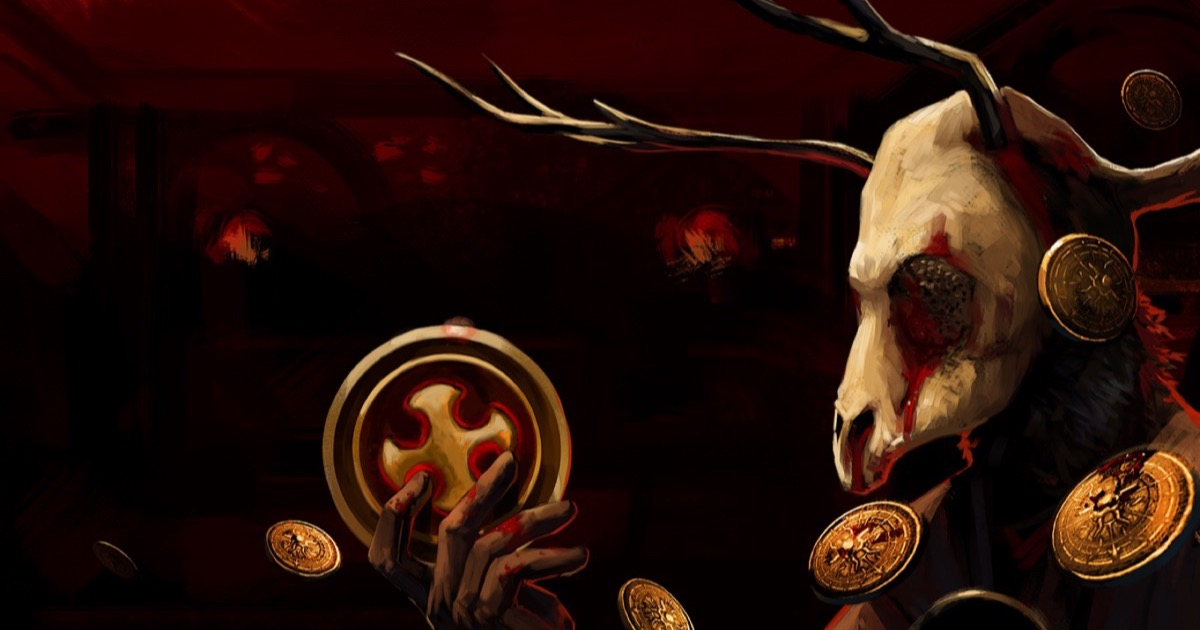
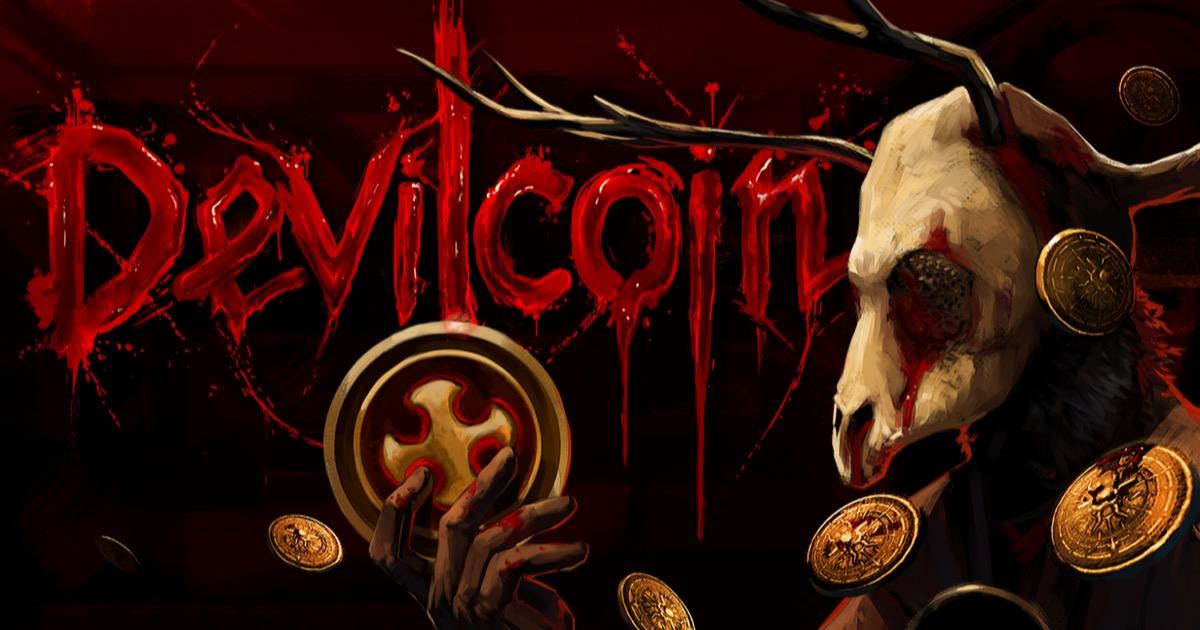
Devilcoin: trailer in press kit; social image uses full key art
Press kit gets a Trailer section (same spot as Abelina's: between What it is
and Screenshots). OG image rebuilt from the full key art capsule instead of the
clean background.

diff --git a/devilcoin/presskit/index.html b/devilcoin/presskit/index.html
@@ -106,6 +106,10 @@ aside{align-self:start;position:sticky;top:70px}
 .pk-shot img{border-radius:9px;border:1px solid var(--border-mid)}
 .pk-cap{font-size:12px;color:var(--text-3);margin-top:5px}
 
+.pk-trailer{position:relative;aspect-ratio:16/9;border-radius:10px;overflow:hidden;
+  border:1px solid var(--border-mid);box-shadow:0 18px 44px rgba(0,0,0,.55)}
+.pk-trailer iframe{position:absolute;inset:0;width:100%;height:100%;border:0}
+
 .pk-specs{display:grid;grid-template-columns:1fr 1fr;gap:12px}
 @media(max-width:620px){.pk-specs{grid-template-columns:1fr}}
 .pk-specs-card{background:var(--void-mid);border:1px solid var(--border-mid);border-radius:9px;padding:16px 18px}
@@ -143,6 +147,7 @@ footer{border-top:1px solid var(--border);padding:26px 20px;text-align:center;
   <div class="pk-nav-in">
     <a href="#description">Description</a>
     <a href="#about">What it is</a>
+    <a href="#trailer">Trailer</a>
     <a href="#media">Screenshots</a>
     <a href="#team">Team</a>
     <a href="#specs">Specs</a>
@@ -186,6 +191,16 @@ footer{border-top:1px solid var(--border);padding:26px 20px;text-align:center;
         <li><b>Slavic folk horror.</b> The setting draws on Slavic folklore and the old stories about bargaining with the devil. The ones that rarely end well.</li>
       </ul>
       <p><b>Who it's for.</b> Roguelite players, because runs are short and the rules are simple and the depth is all in how your Artifacts combine. People who want a story with their runs, told through the room around you and the scenes you unlock, the way Inscryption and The Room do it. And anyone at all, because it's heads or tails and you already know how to play.</p>
+    </section>
+
+    <section class="pk-section" id="trailer">
+      <h2 class="pk-h2">tRAILER</h2>
+      <div class="pk-trailer">
+        <iframe src="https://www.youtube.com/embed/snpgJAzptk4?rel=0&modestbranding=1&playsinline=1"
+          title="Devilcoin — Official Announcement Trailer"
+          allow="accelerometer; autoplay; clipboard-write; encrypted-media; gyroscope; picture-in-picture"
+          allowfullscreen loading="lazy"></iframe>
+      </div>
     </section>
 
     <section class="pk-section" id="media">
